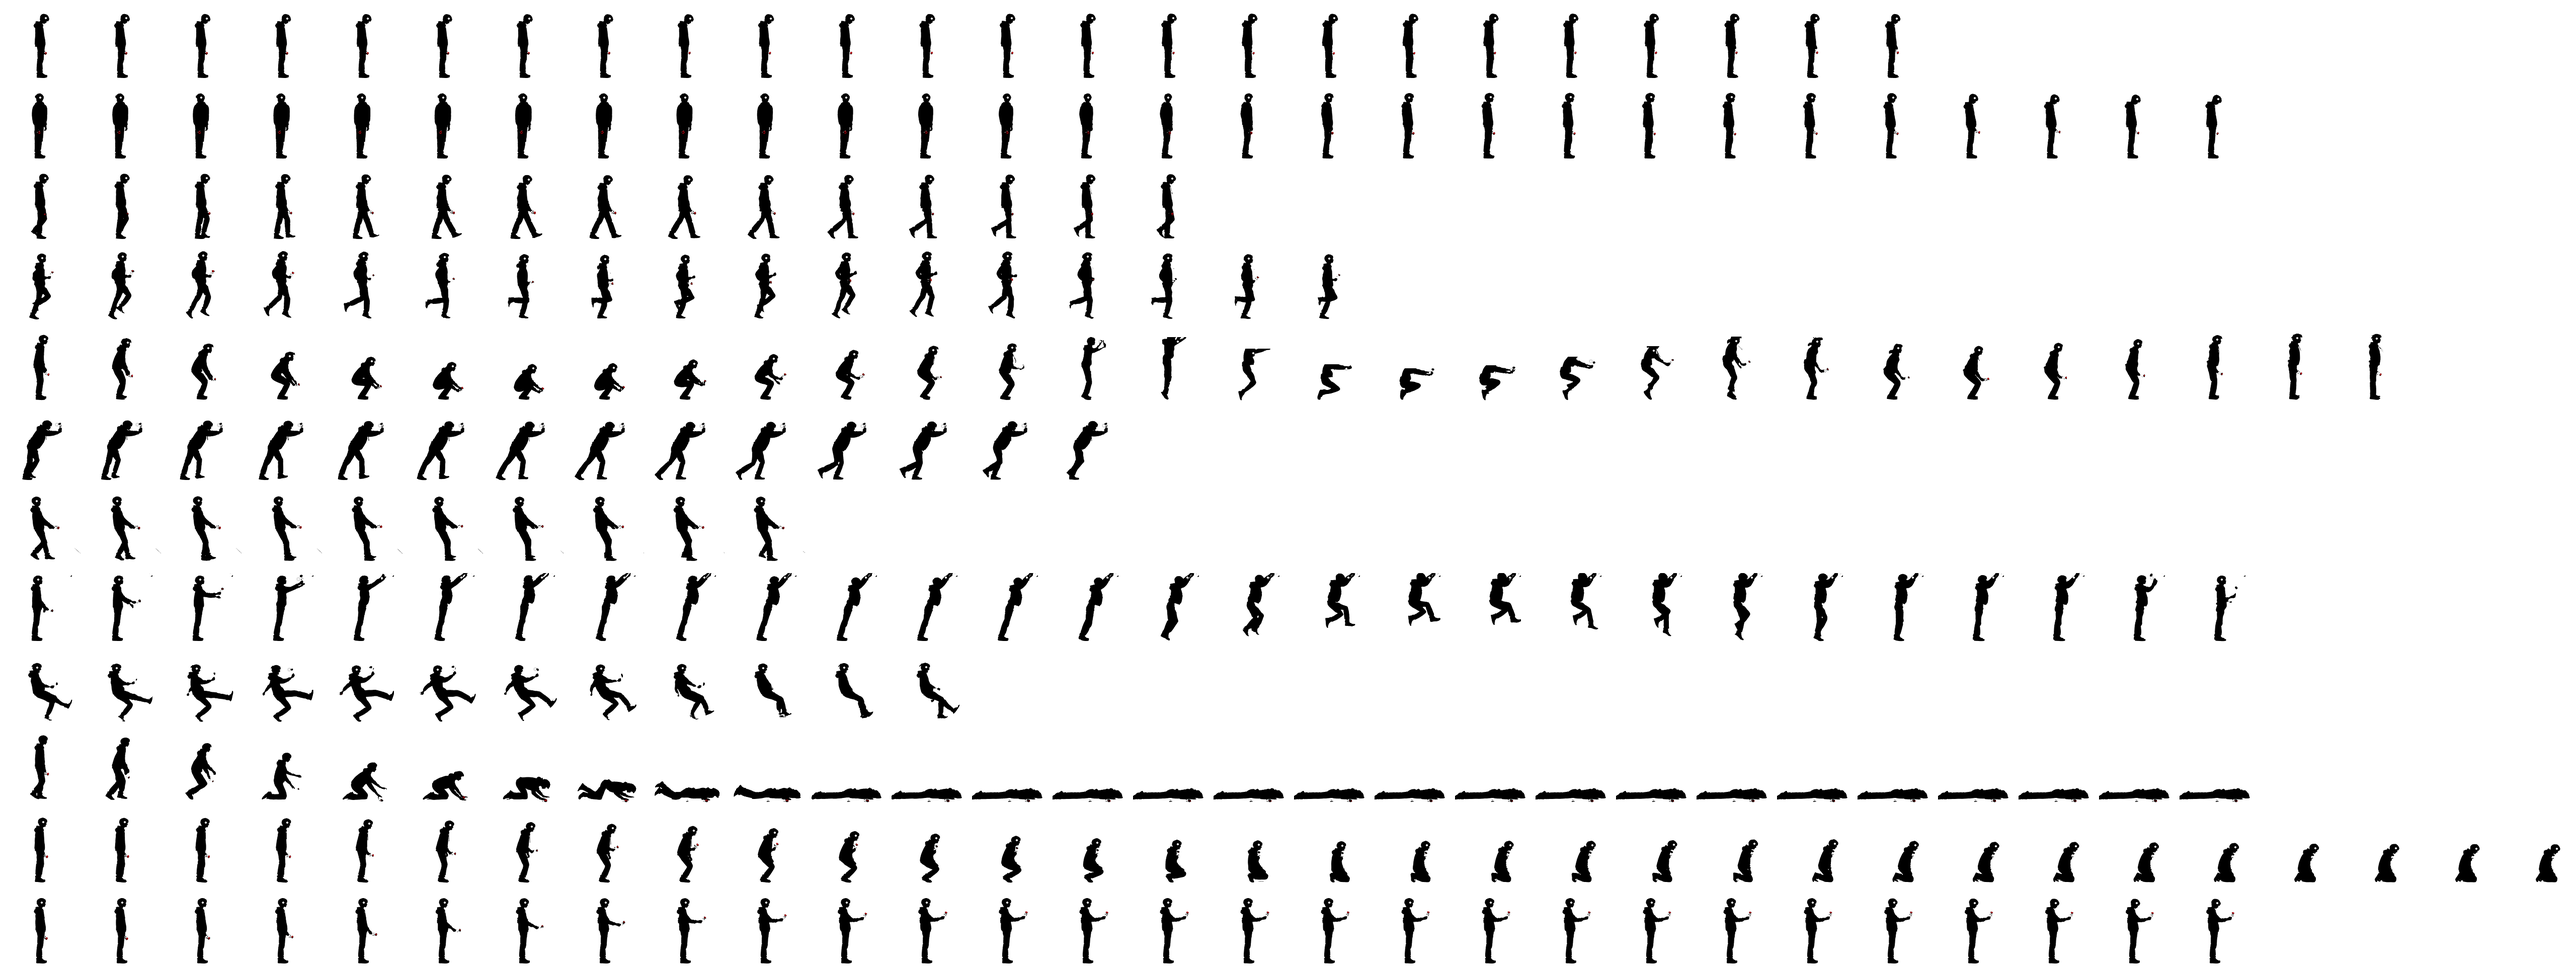
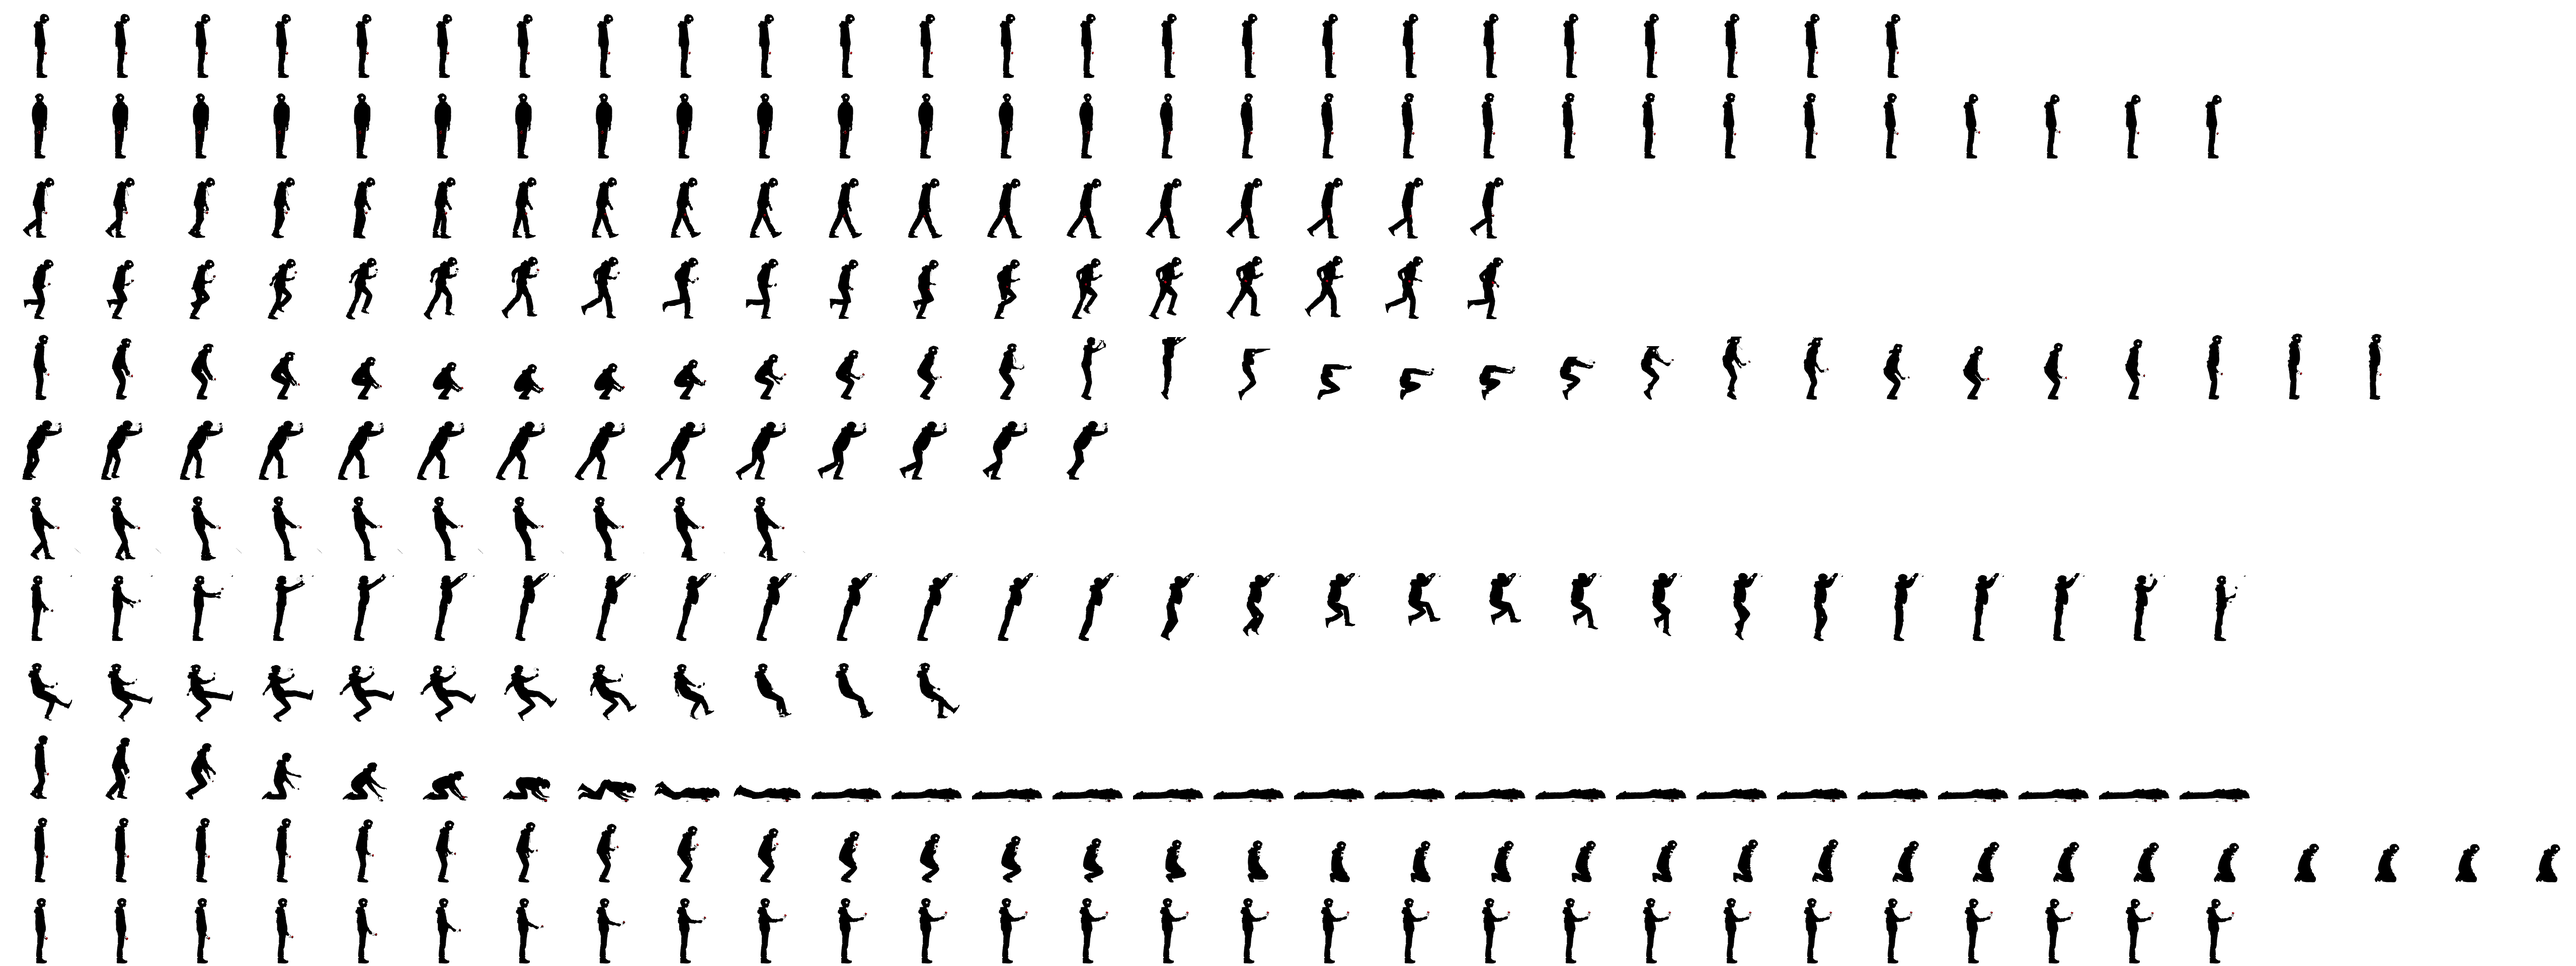
Make the boy's walk and run grieving, keep his feet on the ground
New Kling clips replace the walk (hunched, head hanging, dragging his
feet) and the run (a hunched, frightened flight). The rim light now
only lights the upper body and fades out above the knees, so the legs
melt into the black ground, and the sprite is drawn on the ground
height under the centre of the feet, sunk 1.5 px, so it never floats
on slopes or ledges.

Claude-Session: https://claude.ai/code/session_015t8gbJZNq26SKb4GYZLxqx

diff --git a/prototipos/una-rosa-cada-dia/index.html b/prototipos/una-rosa-cada-dia/index.html
@@ -822,11 +822,21 @@ function rose(c, x, y, r) {
 function drawSprite(c, sheet, anim, frame, x, base, face, rot = 0, alpha = 1) {
   const A = ATLAS[sheet], im = IMG[sheet]; if (!A || !im) return;
   const m = A.anims[anim], s = (sheet === 'mother' ? 43 : 40) / A.bodyH, f = Math.max(0, Math.min(m.frames - 1, frame | 0));
-  c.save(); c.globalAlpha = alpha; c.translate(x, base); if (rot) c.rotate(rot); c.scale(face * s, s);
-  // faint rim light so a black figure still reads in front of black shapes
-  c.shadowColor = 'rgba(205,205,200,.55)'; c.shadowBlur = 7 * (cv.width / VW) / 2;
-  c.drawImage(im, f * A.frameW, m.row * A.frameH, A.frameW, A.frameH, -A.anchorX, -A.anchorY, A.frameW, A.frameH);
-  c.restore();
+  const blit = () => { c.translate(x, base); if (rot) c.rotate(rot); c.scale(face * s, s); c.drawImage(im, f * A.frameW, m.row * A.frameH, A.frameW, A.frameH, -A.anchorX, -A.anchorY, A.frameW, A.frameH); };
+  // faint rim light so the figure reads in front of black shapes — only on the upper body,
+  // fading out above the knees, so the legs melt into the black ground
+  const blur = 7 * (cv.width / VW) / 2;
+  for (const [top, bot, a] of [[-200, -20, 1], [-20, -15, .55], [-15, -11, .25]]) {
+    c.save(); c.beginPath(); c.rect(x - 80, base + top, 160, bot - top); c.clip();
+    c.globalAlpha = alpha * a; c.shadowColor = 'rgba(205,205,200,.5)'; c.shadowBlur = blur; blit(); c.restore();
+  }
+  c.save(); c.globalAlpha = alpha; blit(); c.restore();
+}
+// ground height right under the feet, so the drawn body always touches the floor (slopes included)
+function feetY(o) {
+  const cx = o.x + o.w / 2, y0 = o.y + o.h;
+  for (let k = -2; k <= 7; k++) { if (groundAt(cx) <= y0 + k + .5) return Math.min(groundAt(cx), y0 + k); for (const b of L.boxes) if (!b.gone && !b.falling && cx >= b.x && cx <= b.x + b.w && Math.abs(b.y - (y0 + k)) < .6) return b.y; for (const cr of L.crates) if (cx >= cr.x && cx <= cr.x + cr.w && Math.abs(cr.y - (y0 + k)) < .6) return cr.y; }
+  return y0;
 }
 function drawShadow(c) {
   if (!chase || !chase.started) return;
@@ -883,7 +893,7 @@ function render() {
   if (L.dream) {
     const gy = surfaceY(L.goalX), g = c.createRadialGradient(L.goalX, gy - 30, 4, L.goalX, gy - 30, 120);
     g.addColorStop(0, 'rgba(255,255,250,.55)'); g.addColorStop(1, 'rgba(255,255,250,0)'); c.fillStyle = g; c.fillRect(L.goalX - 120, gy - 150, 240, 170);
-    const A = ATLAS.brother; if (A) { if (S.state === 'meet') drawSprite(c, 'brother', 'offer', Math.min(A.anims.offer.frames - 1, Math.floor(S.timer / 60 * 12)), L.goalX, gy, -1); else drawSprite(c, 'brother', 'idle', Math.floor(t * 8) % A.anims.idle.frames, L.goalX, gy, -1); }
+    const A = ATLAS.brother; if (A) { if (S.state === 'meet') drawSprite(c, 'brother', 'offer', Math.min(A.anims.offer.frames - 1, Math.floor(S.timer / 60 * 12)), L.goalX, gy + 1.5, -1); else drawSprite(c, 'brother', 'idle', Math.floor(t * 8) % A.anims.idle.frames, L.goalX, gy + 1.5, -1); }
   }
   // the boy (or his body)
   const d = S.dead;
@@ -894,11 +904,11 @@ function render() {
       if (d.type === 'drown') drawSprite(c, 'brother', 'fall', fl, cx, base, d.face, .25, Math.max(0, 1 - d.t / 1.6));
       else if (d.type === 'fall') drawSprite(c, 'brother', 'fall', fl, cx, base, d.face);
       else if (d.type === 'shadow') drawSprite(c, 'brother', 'collapse', col, cx, base, d.face, 0, Math.max(0, 1 - d.t / 1.4));
-      else drawSprite(c, 'brother', 'collapse', col, cx, base, d.face);
+      else drawSprite(c, 'brother', 'collapse', col, cx, base + 1.5, d.face);
       if (d.type === 'trap') { const tr = IMG.trapShut; if (tr) c.drawImage(tr, cx - 14, base - 12, 28, 12); }
     }
   } else if (S.state !== 'card' || P) {
-    const p = pose(); if (p) drawSprite(c, p.sheet, p.anim, p.f, P.x + P.w / 2, P.y + P.h, P.face);
+    const p = pose(); if (p) drawSprite(c, p.sheet, p.anim, p.f, P.x + P.w / 2, (P.on && !P.mantle ? feetY(P) : P.y + P.h) + 1.5, P.face);
   }
   if (S.state === 'deliver' && S.sill && S.timer > 70) {
     const k = Math.max(0, Math.min(1, (S.timer - 70) / 60)), e = k * k * (3 - 2 * k), tx = S.sill.x + 1 + S.roses * 6, ty = S.sill.y - 6;

diff --git a/prototipos/una-rosa-cada-dia/tools/make_sheets.py b/prototipos/una-rosa-cada-dia/tools/make_sheets.py
@@ -132,8 +132,8 @@ def process(name, anims, scale_from='idle'):
 
 if __name__ == '__main__':
     process('brother', {
-        'idle': ('bro_idle_sad.mp4', 'idle'), 'look': ('bro_look.mp4', 'once'), 'walk': ('bro_walk_sad.mp4', 'loop'),
-        'run': ('bro_run.mp4', 'loop'), 'jump': ('bro_jump.mp4', 'jump'), 'push': ('bro_push.mp4', 'loop'),
+        'idle': ('bro_idle_sad.mp4', 'idle'), 'look': ('bro_look.mp4', 'once'), 'walk': ('bro_walk_grief.mp4', 'loop'),
+        'run': ('bro_run_flee.mp4', 'loop'), 'jump': ('bro_jump.mp4', 'jump'), 'push': ('bro_push.mp4', 'loop'),
         'pull': ('bro_pull.mp4', 'loop'), 'climb': ('bro_climb.mp4', 'once'), 'fall': ('bro_fall.mp4', 'loop'),
         'collapse': ('bro_collapse.mp4', 'once'), 'kneel': ('bro_kneel.mp4', 'hold'), 'offer': ('bro_offer.mp4', 'once')})
     process('mother', {'idle': ('mom_idle_sad.mp4', 'idle'), 'walk': ('mom_walk.mp4', 'loop'), 'receive': ('mom_receive.mp4', 'hold')})
